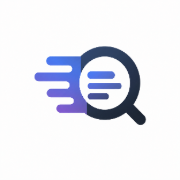
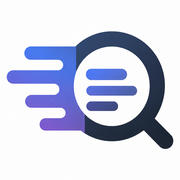
probleme de cache, et ajout de la suppression de campagne

Changed region(s): [[0.0278, 0.1667, 0.9722, 0.8333]]

diff --git a/components/CampaignList.tsx b/components/CampaignList.tsx
@@ -1,0 +1,129 @@
+"use client";
+
+import { useState, useTransition } from "react";
+import Link from "next/link";
+import { deleteCampaigns } from "@/app/actions/campaigns";
+
+type Campaign = {
+  id: string;
+  query: string;
+  status: string;
+  totalLeads: number;
+  processedLeads: number;
+};
+
+export function CampaignList({ campaigns }: { campaigns: Campaign[] }) {
+  const [selected, setSelected] = useState<Set<string>>(new Set());
+  const [isPending, startTransition] = useTransition();
+
+  const allSelected = selected.size > 0 && selected.size === campaigns.length;
+
+  function toggle(id: string) {
+    setSelected((prev) => {
+      const next = new Set(prev);
+      if (next.has(id)) {
+        next.delete(id);
+      } else {
+        next.add(id);
+      }
+      return next;
+    });
+  }
+
+  function toggleAll() {
+    setSelected((prev) =>
+      prev.size === campaigns.length ? new Set() : new Set(campaigns.map((c) => c.id)),
+    );
+  }
+
+  function handleDelete() {
+    const count = selected.size;
+    if (count === 0) return;
+    const label =
+      count === 1 ? "cette campagne" : `ces ${count} campagnes`;
+    if (!window.confirm(`Supprimer définitivement ${label} et tous leurs leads ?`)) {
+      return;
+    }
+
+    const ids = Array.from(selected);
+    startTransition(async () => {
+      await deleteCampaigns(ids);
+      setSelected(new Set());
+    });
+  }
+
+  return (
+    <div className="flex flex-col gap-3">
+      {selected.size > 0 && (
+        <div className="flex items-center justify-between rounded-lg border border-neutral-200 bg-white px-4 py-2">
+          <span className="text-sm text-neutral-600">
+            {selected.size} campagne{selected.size > 1 ? "s" : ""} sélectionnée
+            {selected.size > 1 ? "s" : ""}
+          </span>
+          <button
+            type="button"
+            onClick={handleDelete}
+            disabled={isPending}
+            className="rounded-md bg-red-600 px-3 py-1.5 text-sm font-medium text-white hover:bg-red-700 disabled:opacity-50"
+          >
+            {isPending ? "Suppression…" : "Supprimer"}
+          </button>
+        </div>
+      )}
+
+      <ul className="divide-y divide-neutral-200 rounded-lg border border-neutral-200 bg-white">
+        <li className="flex items-center gap-3 px-4 py-2 text-sm text-neutral-500">
+          <input
+            type="checkbox"
+            checked={allSelected}
+            onChange={toggleAll}
+            className="h-4 w-4 rounded border-neutral-300"
+            aria-label="Tout sélectionner"
+          />
+          Tout sélectionner
+        </li>
+        {campaigns.map((campaign) => (
+          <li key={campaign.id} className="flex items-center gap-3 px-4 py-3 hover:bg-neutral-50">
+            <input
+              type="checkbox"
+              checked={selected.has(campaign.id)}
+              onChange={() => toggle(campaign.id)}
+              className="h-4 w-4 rounded border-neutral-300"
+              aria-label={`Sélectionner ${campaign.query}`}
+            />
+            <Link
+              href={`/campaigns/${campaign.id}`}
+              className="flex flex-1 items-center justify-between"
+            >
+              <span className="font-medium">{campaign.query}</span>
+              <span className="flex items-center gap-3 text-sm text-neutral-500">
+                <span>
+                  {campaign.processedLeads}/{campaign.totalLeads} leads
+                </span>
+                <StatusBadge status={campaign.status} />
+              </span>
+            </Link>
+          </li>
+        ))}
+      </ul>
+    </div>
+  );
+}
+
+function StatusBadge({ status }: { status: string }) {
+  const styles: Record<string, string> = {
+    PENDING: "bg-neutral-100 text-neutral-600",
+    SCRAPING: "bg-amber-100 text-amber-700",
+    ANALYZING: "bg-amber-100 text-amber-700",
+    DONE: "bg-emerald-100 text-emerald-700",
+    ERROR: "bg-red-100 text-red-700",
+  };
+
+  return (
+    <span
+      className={`rounded-full px-2 py-0.5 text-xs font-medium ${styles[status] ?? "bg-neutral-100 text-neutral-600"}`}
+    >
+      {status}
+    </span>
+  );
+}

diff --git a/app/campaigns/page.tsx b/app/campaigns/page.tsx
@@ -1,6 +1,6 @@
-import Link from "next/link";
 import { prisma } from "@/lib/prisma";
 import { CampaignForm } from "@/components/CampaignForm";
+import { CampaignList } from "@/components/CampaignList";
 
 // Toujours lue en direct depuis la base : la liste change a chaque campagne
 // lancee, elle ne doit jamais etre figee au build.
@@ -28,43 +28,8 @@ export default async function CampaignsPage() {
           Aucune campagne pour le moment.
         </p>
       ) : (
-        <ul className="divide-y divide-neutral-200 rounded-lg border border-neutral-200 bg-white">
-          {campaigns.map((campaign) => (
-            <li key={campaign.id}>
-              <Link
-                href={`/campaigns/${campaign.id}`}
-                className="flex items-center justify-between px-4 py-3 hover:bg-neutral-50"
-              >
-                <span className="font-medium">{campaign.query}</span>
-                <span className="flex items-center gap-3 text-sm text-neutral-500">
-                  <span>
-                    {campaign.processedLeads}/{campaign.totalLeads} leads
-                  </span>
-                  <StatusBadge status={campaign.status} />
-                </span>
-              </Link>
-            </li>
-          ))}
-        </ul>
+        <CampaignList campaigns={campaigns} />
       )}
     </div>
-  );
-}
-
-function StatusBadge({ status }: { status: string }) {
-  const styles: Record<string, string> = {
-    PENDING: "bg-neutral-100 text-neutral-600",
-    SCRAPING: "bg-amber-100 text-amber-700",
-    ANALYZING: "bg-amber-100 text-amber-700",
-    DONE: "bg-emerald-100 text-emerald-700",
-    ERROR: "bg-red-100 text-red-700",
-  };
-
-  return (
-    <span
-      className={`rounded-full px-2 py-0.5 text-xs font-medium ${styles[status] ?? "bg-neutral-100 text-neutral-600"}`}
-    >
-      {status}
-    </span>
   );
 }

diff --git a/app/actions/campaigns.ts b/app/actions/campaigns.ts
@@ -1,6 +1,7 @@
 "use server";
 
 import { redirect } from "next/navigation";
+import { revalidatePath } from "next/cache";
 import { prisma } from "@/lib/prisma";
 import { runCampaign } from "@/lib/pipeline/runCampaign";
 
@@ -22,4 +23,12 @@ export async function startCampaign(formData: FormData) {
   });
 
   redirect(`/campaigns/${campaign.id}`);
+}
+
+export async function deleteCampaigns(ids: string[]) {
+  if (ids.length === 0) return;
+
+  await prisma.campaign.deleteMany({ where: { id: { in: ids } } });
+
+  revalidatePath("/campaigns");
 }

diff --git a/app/layout.tsx b/app/layout.tsx
@@ -39,8 +39,8 @@ export default function RootLayout({
               <Image
                 src="/logo.png"
                 alt="Prospection"
-                width={28}
-                height={28}
+                width={44}
+                height={44}
                 className="rounded"
               />
               Prospection